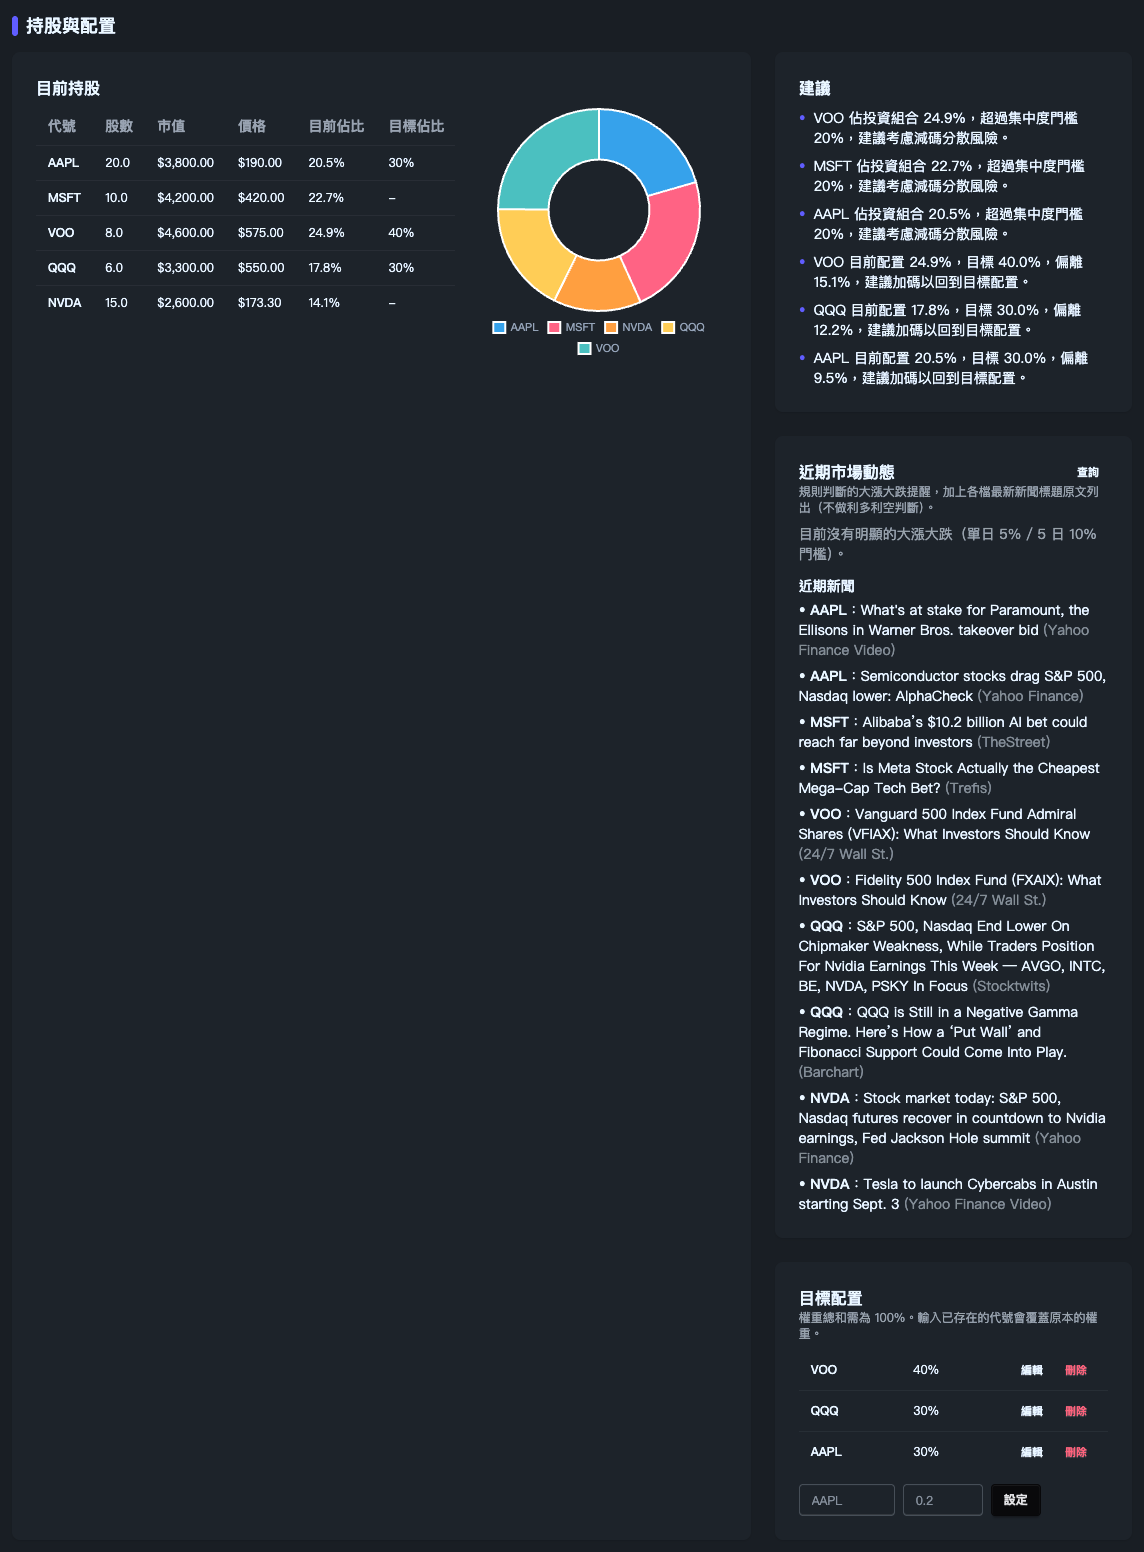
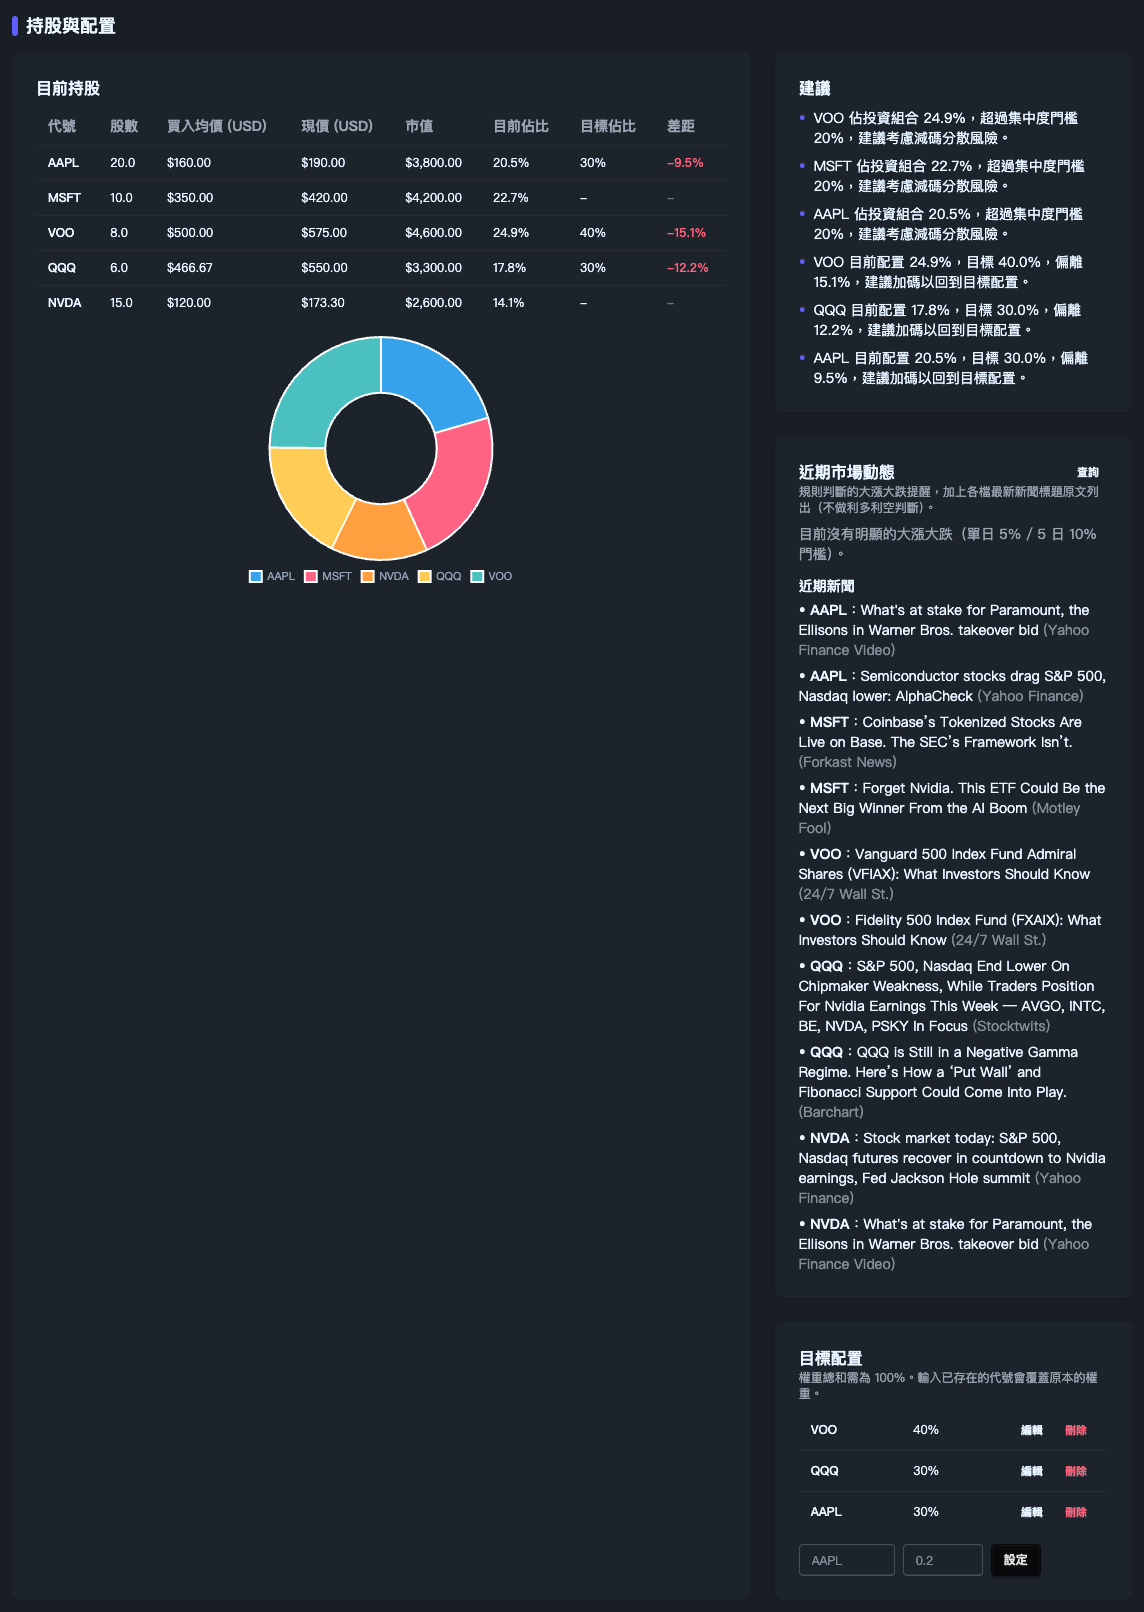
Refresh README screenshots to reflect current UI (TWD cards, buy price columns, no-rebalance line, ticker autocomplete)

diff --git a/README.md b/README.md
@@ -10,26 +10,28 @@
 
 ![總覽：頂部統計卡片](docs/screenshot-overview.png)
 
-一進頁面就看到總市值、未實現損益、報酬率、持股檔數。
+一進頁面就看到總市值、未實現損益、報酬率、持股檔數，右邊多一張換算成台幣的總市值卡片（用 Yahoo Finance 的參考匯率，不是特定銀行的買賣價）。
 
 ### 持股與配置
 
 ![持股與配置：持股表格、配置圓餅圖、建議、近期市場動態、目標配置](docs/screenshot-holdings.png)
 
-- 左邊是目前持股表格，每檔股票的「目前佔比」跟「目標佔比」並排，偏離超過 5% 會標紅，跟右下角的「目標配置」是同一份資料、改了會一起動
-- 右上「建議」：依集中度跟配置偏離規則列出的提醒，不是投資建議
+- 持股表格：代號、股數、買入均價、現價、市值，加上「目前佔比」跟「目標佔比」並排，偏離超過 5% 會標紅，跟下面的「目標配置」是同一份資料、改了會一起動；配置圓餅圖在表格下方，hover 會顯示每檔的市值
+- 「建議」：依集中度跟配置偏離規則列出的提醒，不是投資建議
 - 「近期市場動態」：按查詢會抓每檔持股最近的大漲大跌（規則判斷）跟最新新聞標題（原文列出，不做利多利空判斷）
-- 「目標配置」：可以新增/編輯/刪除每檔的目標權重，權重總和要是 100%
+- 「目標配置」：可以新增/編輯/刪除每檔的目標權重，權重總和要是 100%，輸入代號時有自動完成建議
 
 ### 持股歷史走勢
 
 ![持股歷史走勢：報酬率比較圖、最大回撤與波動度分析、重大波動日標註](docs/screenshot-history.png)
 
-用「目前」的股數回推過去市值，可選每日／每月／每季／每年顯示。填「比較標的」（可以是單一標的，或像 `QQQ:0.6,VOO:0.4` 這樣的加權組合）會切換成報酬率比較，並算出最大回撤跟年化波動度的比較文字。圖上的直線標出單日 ±3% 以上的「重大波動日」——只標出哪天波動大，沒辦法自動回溯當天的新聞原因（yfinance 的新聞功能只保留最新報導，查不到歷史上某一天發生了什麼事）。
+用「目前」的股數回推過去市值，可選每日／每月／每季／每年顯示。填「比較標的」（可以是單一標的，或像 `QQQ:0.6,VOO:0.4` 這樣的加權組合，輸入代號時有自動完成建議）會切換成報酬率比較，並算出最大回撤跟年化波動度的比較文字。圖上的直線標出單日 ±3% 以上的「重大波動日」，滑鼠移過去會顯示當天漲跌幅——只標出哪天波動大，沒辦法自動回溯當天的新聞原因（yfinance 的新聞功能只保留最新報導，查不到歷史上某一天發生了什麼事）。
 
 ### 再平衡策略回測
 
 ![再平衡策略回測：投組表現走勢圖、再平衡日與最大回撤標註](docs/screenshot-backtest.png)
+
+圖上除了投組跟比較基準，選了再平衡頻率時還會多畫一條「不再平衡」的虛線，直接看再平衡本身帶來的差異，不用手動切換重跑兩次。
 
 用「目標配置」的權重模擬過去表現，可選再平衡頻率，比較基準預設 SPY、同樣支援自訂加權組合。圖上虛線標出每次再平衡發生的日期，陰影區塊是最大回撤發生的區間。不含手續費/稅金，僅供參考，不是真實交易模擬。
 
@@ -38,8 +40,10 @@
 - **持股同步**：透過非官方 Firstrade API 自動登入（支援 TOTP 兩步驟驗證），抓取目前帳戶持倉並存成歷史快照
 - **配置建議**：依目前持股計算集中度風險，並比對自訂的目標配置，列出偏離提醒
 - **持股歷史走勢**：用「目前」的股數回推過去市值，可選每日／每月／每季／每年顯示；也可以填一個比較標的或加權組合（如 `QQQ:0.6,VOO:0.4`），看你的組合對比大盤或任意基準的報酬率，並標出單日大漲大跌的節點
-- **再平衡策略回測**：用目標配置模擬過去表現，可選再平衡頻率（不再平衡／每月／每季／每年），比較基準同樣支援自訂加權組合；圖表會標出每次再平衡發生的日期跟最大回撤區間
+- **再平衡策略回測**：用目標配置模擬過去表現，可選再平衡頻率（不再平衡／每月／每季／每年），比較基準同樣支援自訂加權組合；圖表會標出每次再平衡發生的日期跟最大回撤區間，並多畫一條「不再平衡」的對照線
 - **近期市場動態**：規則判斷的大漲大跌提醒，加上各檔最新新聞標題（原文列出，不做利多利空判斷）
+- **台幣換算**：總市值、未實現損益都有台幣版，用即時 USD/TWD 參考匯率換算
+- **代號自動完成**：目標配置、比較標的、比較基準的輸入框都有股票代號建議
 - **儀表板**：單頁網頁介面，含深色模式，資料存在本機（開發）或 Postgres（正式環境）
 
 ## 技術棧
